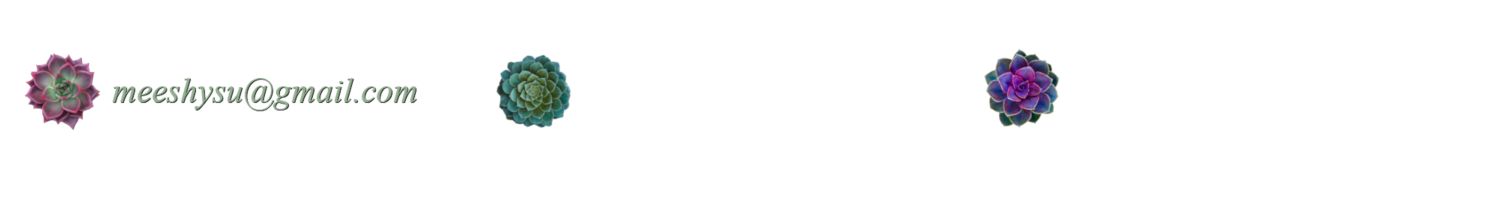
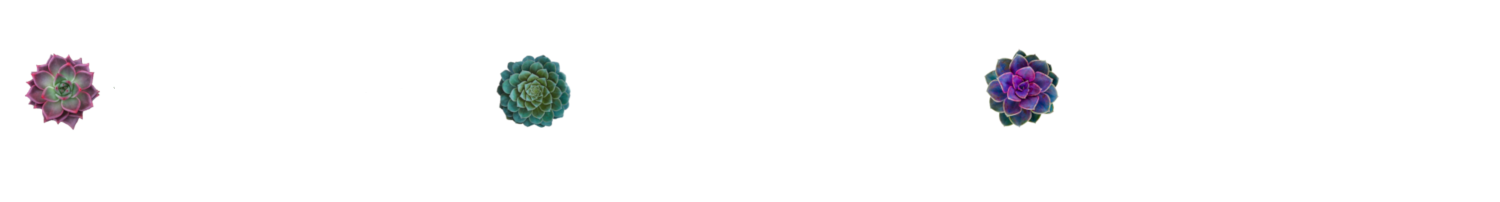
homepage now has github, linkedin and email

Changed region(s): [[0.0613, 0.3861, 0.276, 0.5644]]

diff --git a/src/Styles/contact.scss b/src/Styles/contact.scss
@@ -1,60 +1,60 @@
-@import url('https://fonts.googleapis.com/css?family=Poiret+One');
+// @import url('https://fonts.googleapis.com/css?family=Poiret+One');
 
-#contactPage {
-  margin-top: -600px;
-}
+// #contactPage {
+//   margin-top: -600px;
+// }
 
-#wreath {
-  z-index: 2;
-  left: 1200px;
-  top: 10px;
-  transform: rotate(5deg);
-  -ms-transform: rotate(10deg);
-  -webkit-transform: rotate(90deg);
-}
+// #wreath {
+//   z-index: 2;
+//   left: 1200px;
+//   top: 10px;
+//   transform: rotate(5deg);
+//   -ms-transform: rotate(10deg);
+//   -webkit-transform: rotate(90deg);
+// }
 
-.contact-me {
-  margin-left: 23%;
-  margin-top: -10%;
-  font-family: 'Poiret One', cursive;
-  font-size: 65px;
-}
+// .contact-me {
+//   margin-left: 23%;
+//   margin-top: -10%;
+//   font-family: 'Poiret One', cursive;
+//   font-size: 65px;
+// }
 
-#gitHub-flower {
-  margin-left: 30%;
-  margin-top: 5%;
-  max-width: 5%;
-  transform: rotate(5deg);
-  -ms-transform: rotate(10deg);
-  -webkit-transform: rotate(90deg);
-}
+// #gitHub-flower {
+//   margin-left: 30%;
+//   margin-top: 5%;
+//   max-width: 5%;
+//   transform: rotate(5deg);
+//   -ms-transform: rotate(10deg);
+//   -webkit-transform: rotate(90deg);
+// }
 
-#linkedIn-flower {
-  margin-left: 45%;
-  margin-top: 5%;
-  max-width: 5%;
-  transform: rotate(5deg);
-  -ms-transform: rotate(10deg);
-  -webkit-transform: rotate(90deg);
-}
+// #linkedIn-flower {
+//   margin-left: 45%;
+//   margin-top: 5%;
+//   max-width: 5%;
+//   transform: rotate(5deg);
+//   -ms-transform: rotate(10deg);
+//   -webkit-transform: rotate(90deg);
+// }
 
-#email-flower {
-  margin-left: 60%;
-  margin-top: -15%;
-  max-width: 5%;
-}
+// #email-flower {
+//   margin-left: 60%;
+//   margin-top: -15%;
+//   max-width: 5%;
+// }
 
-.email {
-  margin-left: 66%;
-  margin-top: -14%;
-  font-weight: bolder;
-  font-size: 30px;
-  font-family: 'Poiret One', cursive;
-}
+// .email {
+//   margin-left: 66%;
+//   margin-top: -14%;
+//   font-weight: bolder;
+//   font-size: 30px;
+//   font-family: 'Poiret One', cursive;
+// }
 
-.github {
-  margin-left: 1%;
-  font-weight: bolder;
-  font-size: 30px;
-  font-family: 'Poiret One', cursive;
-}
+// .github {
+//   margin-left: 1%;
+//   font-weight: bolder;
+//   font-size: 30px;
+//   font-family: 'Poiret One', cursive;
+// }

diff --git a/src/Styles/homePage.scss b/src/Styles/homePage.scss
@@ -1,4 +1,4 @@
-@import url('https://fonts.googleapis.com/css?family=Poiret+One');
+@import url('https://fonts.googleapis.com/css?family=EB+Garamond');
 html {
     min-height: 100%;
     overflow: hidden;
@@ -13,8 +13,8 @@ html {
 #nameAnimation {
 	height: calc(115vh - 3em);
 	color: white;
-	font-size: 20px;
-	font-family: 'Poiret One', cursive;
+	font-size: 25px;
+	font-family: 'EB Garamond', serif;
 	text-shadow: 5px 1px 1px rgb(59, 59, 59);
 }
 
@@ -197,13 +197,46 @@ left: 25%;
 	transform: translateY(-300%);
 }
 
-.contact-info {
+.email-info {
 	z-index: 1;
-	margin-top: -300px;
-	margin-left: 500px;
+	margin-top: -129px;
+	margin-left: 240px;
+	font-family: Georgia, 'Times New Roman', Times, serif;
+	font-style: italic;
+	font-size: 29px;
+	text-shadow: 0px 1px 1px 1px rgb(59, 59, 59);
+	color: #94af92;
+}
+
+.linkedin-info {
+	z-index: 1;
+	margin-top: -43px;
+	margin-left: 710px;
+	font-family: Georgia, 'Times New Roman', Times, serif;
+	font-style: italic;
+	font-size: 29px;
+	text-shadow: 0px 1px 1px 1px rgb(59, 59, 59);
+}
+
+.github-info {
+	z-index: 1;
+	margin-top: -43px;
+	margin-left: 1195px;
+	font-family: Georgia, 'Times New Roman', Times, serif;
+	font-style: italic;
+	font-size: 29px;
+	text-shadow: 2px 1px 2px 1px rgb(59, 59, 59);
+}
+
+a {
+	color: #94af92;
+}
+
+a:hover {
+	color: beige;
 }
 
 #contact-picture {
-	margin-left: 3%;
-	top: 8%;
+	margin-left: 8%;
+	margin-top: -8%;
 } 

diff --git a/src/index.html b/src/index.html
@@ -8,15 +8,23 @@
 
 <body>
 
-<div id="banner">
-  <div id="nameAnimation">
-    <p class="line-1 animationTypeWriter">Michelle Beshears</p>
-        <img id="contact-picture">
-      
-  
-      <div class="contact-info">
-        <a href="http://www.linkedin.com/in/michelle-beshears/" class="linkedin">LinkedIn Profile</a>
+  <div id="banner">
+
+    <div id="nameAnimation">
+
+      <p class="line-1 animationTypeWriter">Michelle Beshears</p>
+      <img id="contact-picture">
+
+      <div class="email-info">
+        <a class="email">meeshysu@gmail.com</a>
       </div>
+      <div class="linkedin-info">
+        <a href="http://www.linkedin.com/in/michelle-beshears/" class="linkedin" target="_blank">LinkedIn Profile</a>
+      </div>
+      <div class="github-info">
+        <a href="https://github.com/meeshysu" class="github" target="_blank">Github Profile</a>
+      </div>
+
     </div>
 
   </div>
